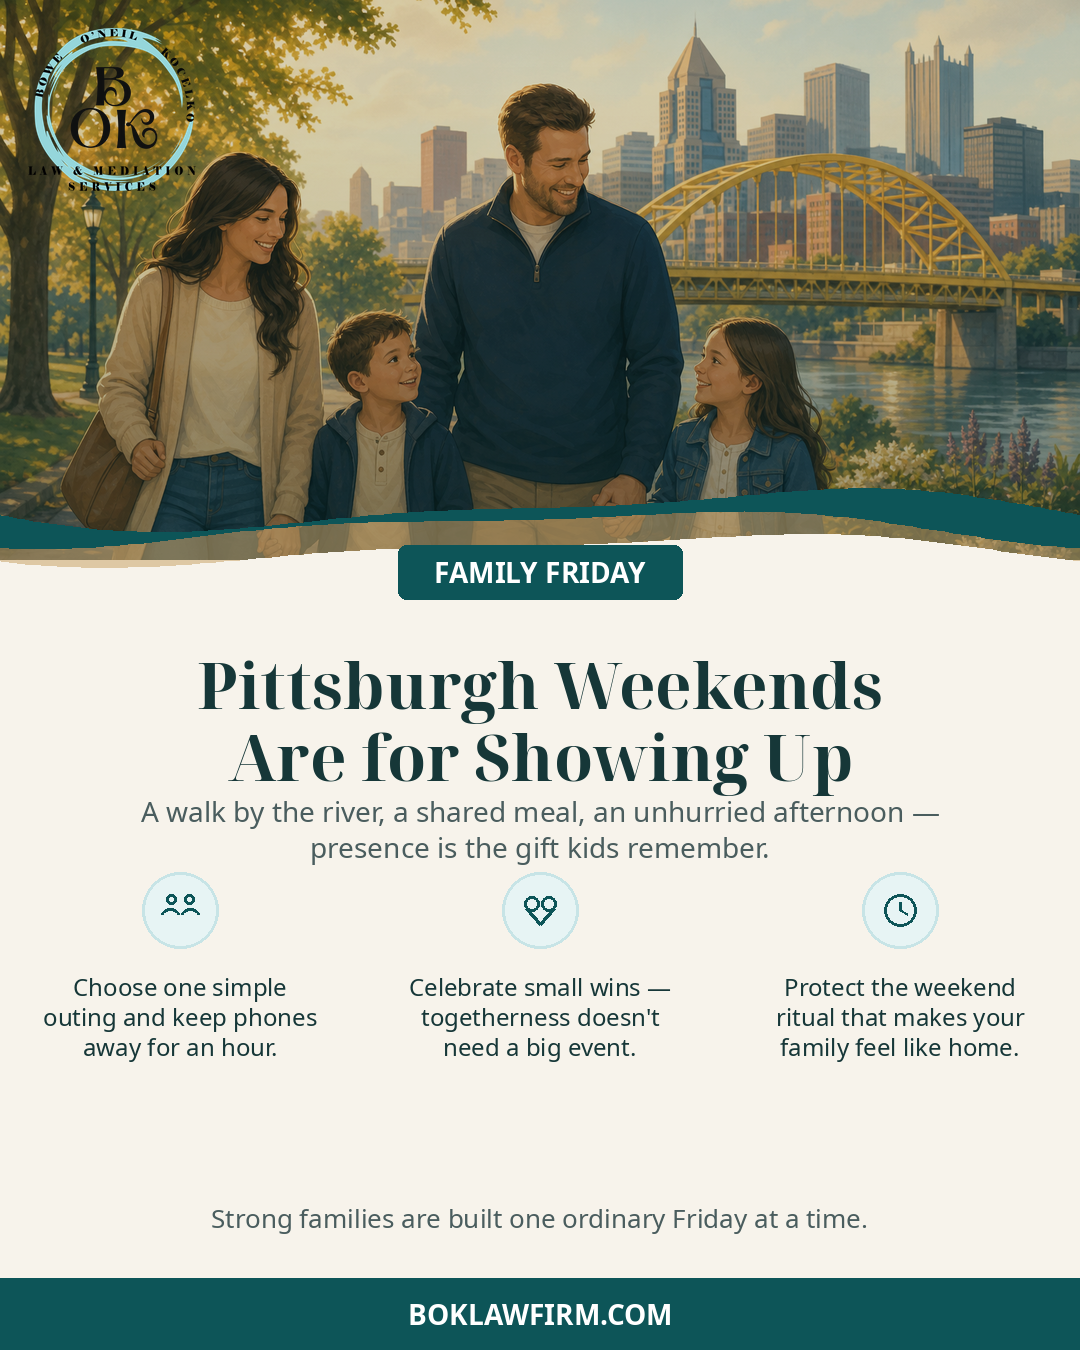
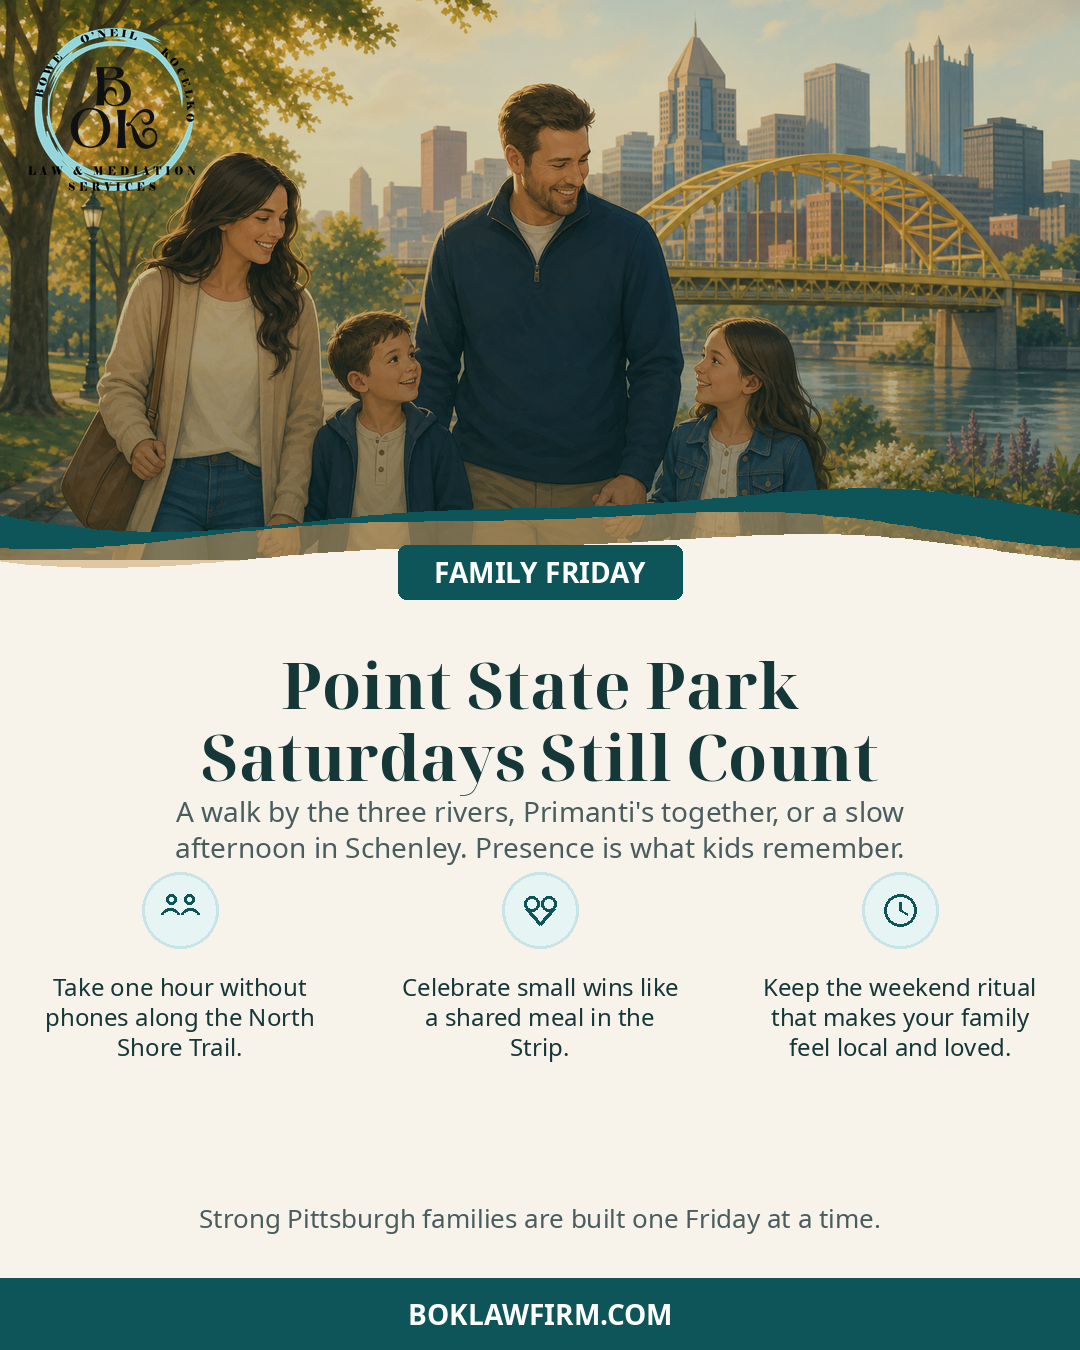
Refresh BOK social copy: Pittsburgh-specific, no dashes
Updated Truth Tuesday, Wednesday Wisdom, and Family Friday headlines and tips with local references (North Side, Allegheny County, Point State Park, Strip District) and removed em dashes.

diff --git a/01_Clients/Bok Law/social-posts/2026-07-14/README.md b/01_Clients/Bok Law/social-posts/2026-07-14/README.md
@@ -7,15 +7,17 @@ tags: [social, graphics, deliverable]
 
 # BOK Law Social Graphics — 2026-07-14
 
-Built to match their existing animated social style: soft illustrated hero, exact logo (top-left), teal wavy series banner, serif headline, three tip icons, cream body, teal `BOKLAWFIRM.COM` footer.
+Built to match their existing animated social style: soft illustrated hero, exact logo (top left), teal wavy series banner, serif headline, three tip icons, cream body, teal `BOKLAWFIRM.COM` footer.
+
+Copy is Pittsburgh specific. No em dashes.
 
 ## Topics
 
 | Day | Series | Headline |
 |---|---|---|
-| Tuesday | Truth Tuesday | Kids Hear More Than the Words You Choose |
-| Wednesday | Wednesday Wisdom | A Parenting Plan Is a Peace Plan |
-| Friday | Family Friday | Pittsburgh Weekends Are for Showing Up |
+| Tuesday | Truth Tuesday | Pittsburgh Kids Hear More Than the Schedule |
+| Wednesday | Wednesday Wisdom | Allegheny County Plans Should Bring Peace |
+| Friday | Family Friday | Point State Park Saturdays Still Count |
 
 ## Files
 
@@ -27,10 +29,10 @@ Built to match their existing animated social style: soft illustrated hero, exac
 ## Caption starters
 
 **Truth Tuesday**
-Kids are always listening — even when the conversation isn’t for them. Honesty between co-parents doesn’t have to be loud to be clear.
+Between school dropoffs, North Side practices, and two homes, Pittsburgh kids are always listening. Calm honesty is what helps them feel steady.
 
 **Wednesday Wisdom**
-A parenting plan isn’t about control. It’s about giving kids a rhythm they can trust when everything else feels uncertain.
+A clear Allegheny County parenting plan is not about control. It is about giving kids a rhythm for school nights, weekends, and holidays.
 
 **Family Friday**
-This weekend, show up in the small ways — a walk, a meal, an hour without phones. Pittsburgh families are built in those ordinary moments.
+This weekend, show up in the Pittsburgh way. A walk by the three rivers, Primanti's together, or a slow afternoon in Schenley. Presence is what kids remember.
